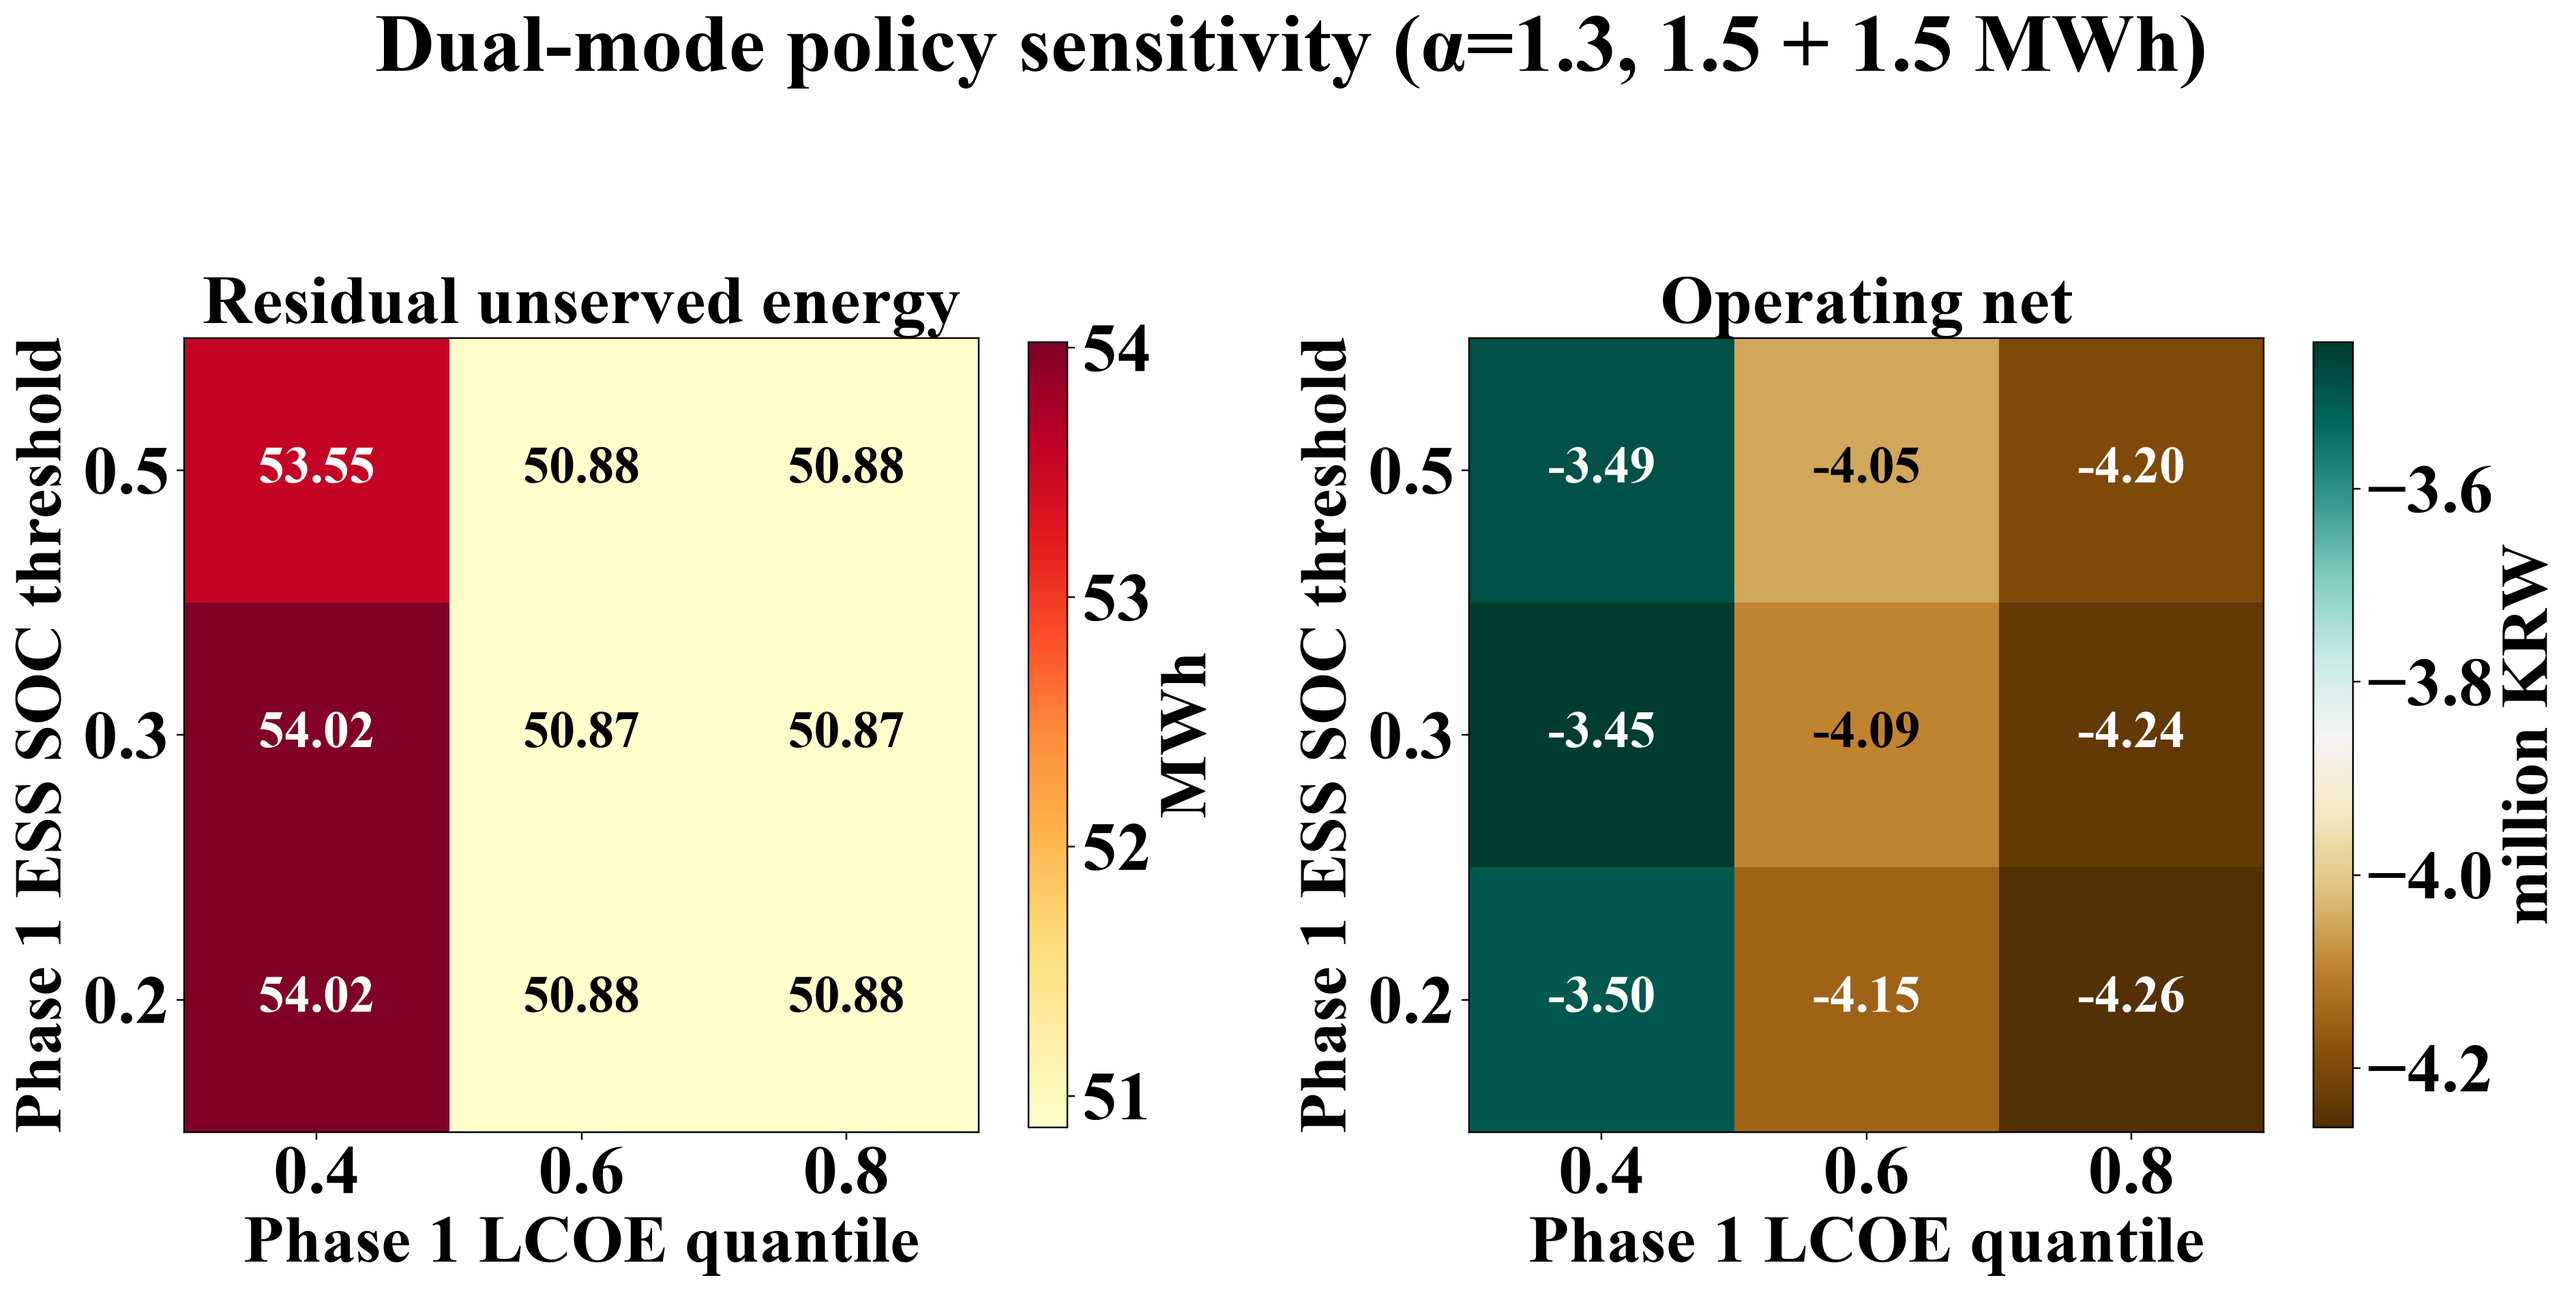
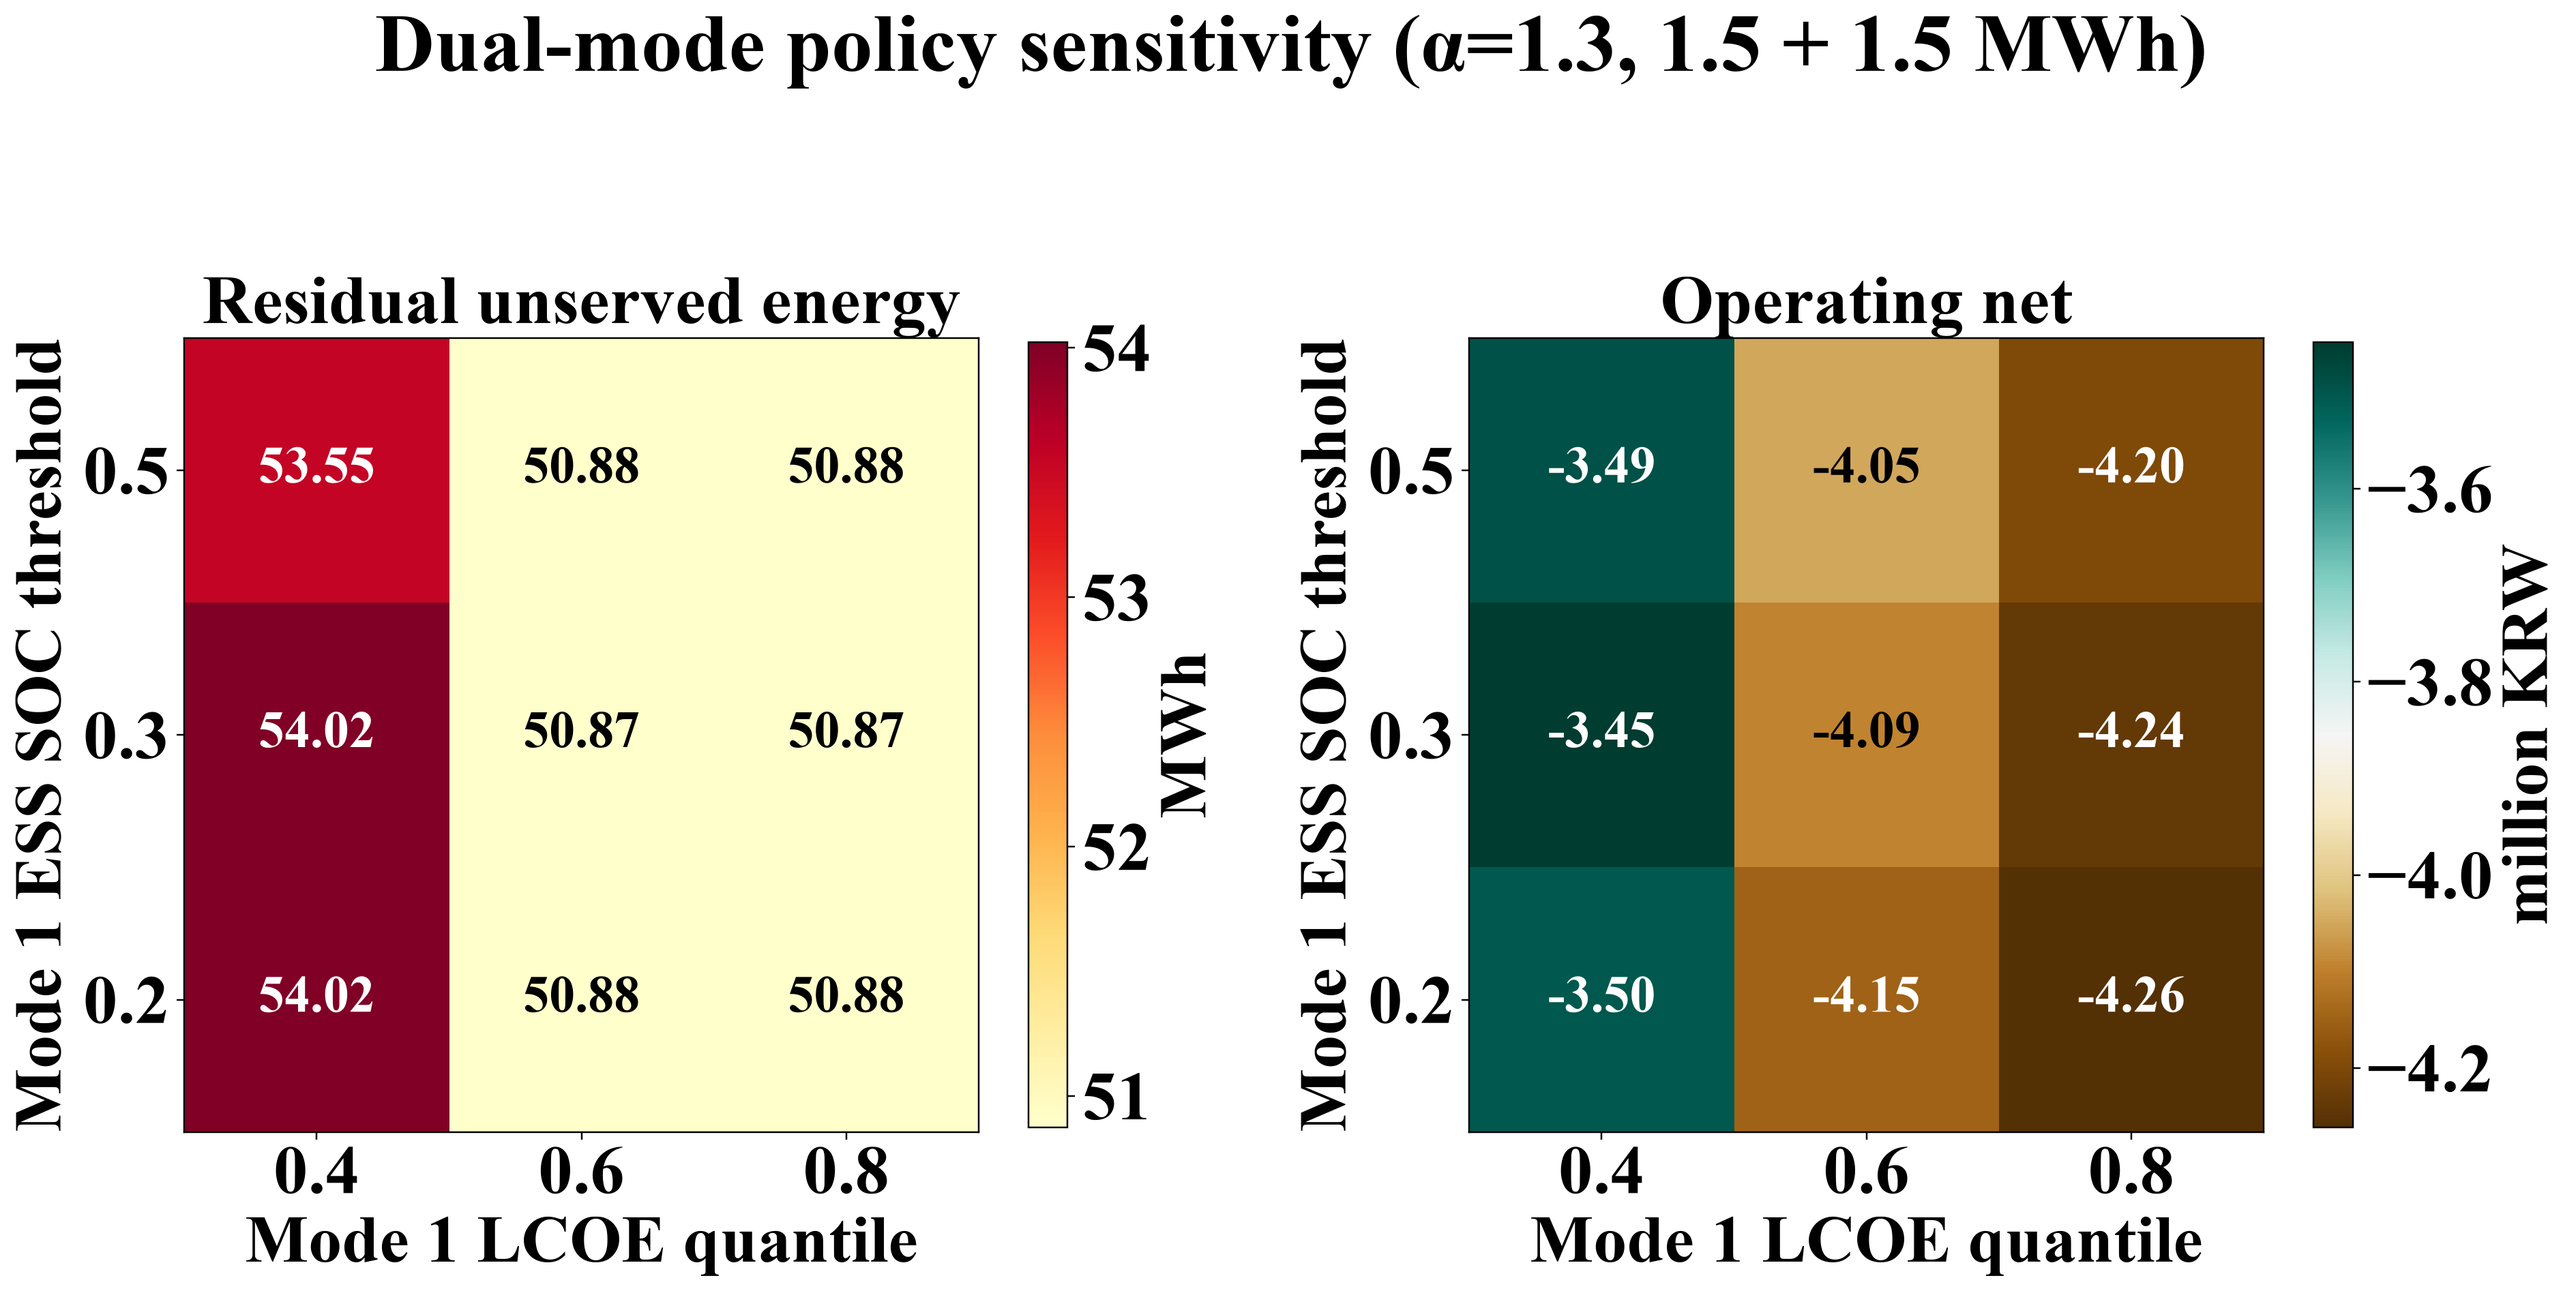
Rename Figure 12 Phase 1 axes to Mode 1

diff --git a/strategy_sensitivity.py b/strategy_sensitivity.py
@@ -83,8 +83,8 @@ def main() -> None:
             )
         ax.set_xticks(range(3), ("0.4", "0.6", "0.8"))
         ax.set_yticks(range(3), ("0.2", "0.3", "0.5"))
-        ax.set_xlabel("Phase 1 LCOE quantile")
-        ax.set_ylabel("Phase 1 ESS SOC threshold")
+        ax.set_xlabel("Mode 1 LCOE quantile")
+        ax.set_ylabel("Mode 1 ESS SOC threshold")
         ax.set_title(title)
         fig.colorbar(image, ax=ax, label=units, shrink=0.75)
     fig.suptitle("Dual-mode policy sensitivity (α=1.3, 1.5 + 1.5 MWh)")
